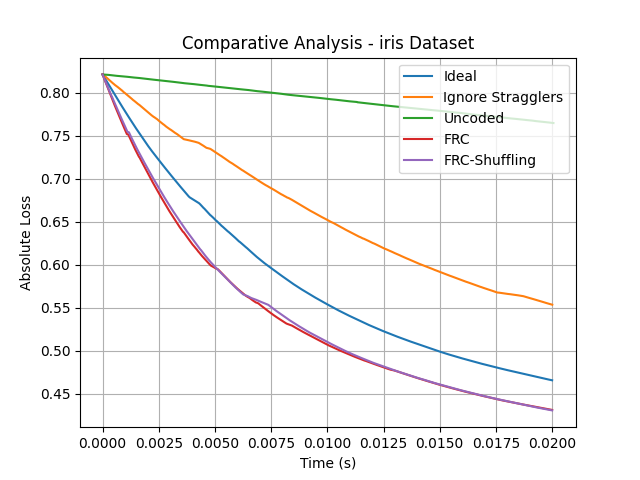
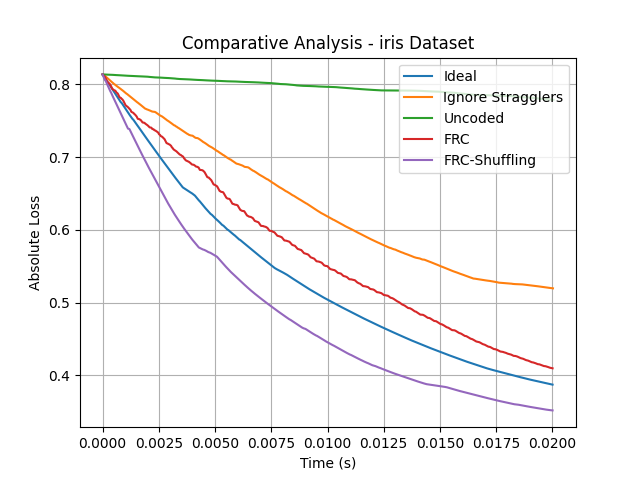
fixed bugs

diff --git a/Loss_Experiments/util.py b/Loss_Experiments/util.py
@@ -1,4 +1,6 @@
+import scipy.special as sp
 import numpy as np 
+import itertools
 
 def get_absolute_loss(X, y, w):
     loss = 0.
@@ -8,3 +10,40 @@ def get_absolute_loss(X, y, w):
 
 def least_square_loss(X, y, w):
     return np.dot(X.T, np.subtract(np.dot(X, w), y))
+
+def unique_rows(a):
+    b = np.ascontiguousarray(a).view(np.dtype((np.void, a.dtype.itemsize * a.shape[1])))
+    _, idx = np.unique(b, return_index=True)
+    return a[idx]
+
+def getB(n_workers,n_stragglers):
+    Htemp=np.random.normal(0,1,[n_stragglers,n_workers-1])
+    H=np.vstack([Htemp.T,-np.sum(Htemp,axis=1)]).T
+    Ssets=np.zeros([n_workers,n_stragglers+1])
+    for i in range(n_workers):
+        Ssets[i,:]=np.arange(i,i+n_stragglers+1)
+    Ssets=Ssets.astype(int)
+    Ssets=Ssets%n_workers
+    B=np.zeros([n_workers,n_workers])
+    for i in range(n_workers):
+        B[i,Ssets[i,0]]=1
+        vtemp=-np.linalg.solve(H[:,np.array(Ssets[i,1:])],H[:,Ssets[i,0]])
+        ctr=0
+        for j in Ssets[i,1:]:
+            B[i,j]=vtemp[ctr]
+            ctr+=1
+    return B
+
+def getA(B,n_workers,n_stragglers):
+    S = np.ones((int(sp.binom(n_workers,n_stragglers)),n_workers))
+    combs = itertools.combinations(range(n_workers), n_stragglers)
+    i=0
+    for pos in combs:
+        S[i,pos] = 0
+        i += 1
+    (m,n)=S.shape
+    A=np.zeros([m,n])
+    for i in range(m):
+        sp_pos=S[i,:]==1
+        A[i,sp_pos]=np.linalg.lstsq(B[sp_pos,:].T,np.ones(n_workers))[0]
+    return A

diff --git a/Loss_Experiments/distributed_gradient_descent_frc.py b/Loss_Experiments/distributed_gradient_descent_frc.py
@@ -17,13 +17,17 @@ def iterate(f, X, y, w, bucket, alpha=0.0001):
     e = bucket[1]
     return np.multiply((alpha/X.shape[0]), f(X[s:e], y[s:e], w))
 
-def run(N=10, s_ratio=0.1, pss=0.8, pns=0.01, k=2, time_stop=0, dataset="boston"):
+def run(N=10, s_ratio=0.1, pss=0.8, pns=0.01, k=2, time_stop=0, dataset="boston", alpha=0.0001):
     N                  = int(N/k)
     data               = get_dataset(dataset)
     X_, y              = data.data, data.target 
     X                  = np.ones((X_.shape[0], X_.shape[1] + 1))
     X[:,:-1]           = X_  
     X                  = np.divide((X - np.mean(X)),np.std(X))
+    np.random.seed(42)
+    np.random.shuffle(X)
+    np.random.seed(42)
+    np.random.shuffle(y)
     X_test             = X[:int(X.shape[0]/2)]
     X                  = X[int(X.shape[0]/2):X.shape[0]]
     y_test             = y[:int(y.size/2)]
@@ -47,7 +51,7 @@ def run(N=10, s_ratio=0.1, pss=0.8, pns=0.01, k=2, time_stop=0, dataset="boston"
         for each in buckets:
             SD = 1
             start_time = time.time()
-            g_         = iterate(least_square_loss, X, y, w, each)
+            g_         = iterate(least_square_loss, X, y, w, each, alpha=alpha)
             t_         = time.time() - start_time 
             if buckets.index(each) in straggler_arr:
                 if np.random.random() < pss:

diff --git a/Loss_Experiments/distributed_gradient_descent_frc_shuffling.py b/Loss_Experiments/distributed_gradient_descent_frc_shuffling.py
@@ -26,13 +26,17 @@ def iterate(f, X, y, w, bucket, alpha=0.0001):
     e = bucket[1]
     return np.multiply((alpha/X.shape[0]), f(X[s:e], y[s:e], w))
 
-def run(N=10, s_ratio=0.1, pss=0.8, pns=0.01, k=2, time_stop=0, dataset="boston"):
+def run(N=10, s_ratio=0.1, pss=0.8, pns=0.01, k=2, time_stop=0, dataset="boston", alpha=0.0001):
     N                  = int(N/k)
     data               = get_dataset(dataset)
     X_, y              = data.data, data.target 
     X                  = np.ones((X_.shape[0], X_.shape[1] + 1))
     X[:,:-1]           = X_  
     X                  = np.divide((X - np.mean(X)),np.std(X))
+    np.random.seed(42)
+    np.random.shuffle(X)
+    np.random.seed(42)
+    np.random.shuffle(y)
     X_test             = X[:int(X.shape[0]/2)]
     X                  = X[int(X.shape[0]/2):X.shape[0]]
     y_test             = y[:int(y.size/2)]
@@ -56,7 +60,7 @@ def run(N=10, s_ratio=0.1, pss=0.8, pns=0.01, k=2, time_stop=0, dataset="boston"
         for each in buckets:
             SD = 1
             start_time = time.time()
-            g_         = iterate(least_square_loss, X, y, w, each)
+            g_         = iterate(least_square_loss, X, y, w, each, alpha=alpha)
             t_         = time.time() - start_time 
             if buckets.index(each) in straggler_arr:
                 if np.random.random() < pss:

diff --git a/Loss_Experiments/distributed_gradient_descent_ignore.py b/Loss_Experiments/distributed_gradient_descent_ignore.py
@@ -10,12 +10,16 @@ def iterate(f, X, y, w, bucket, alpha=0.0001):
     e = bucket[1]
     return np.multiply((alpha/X.shape[0]), f(X[s:e], y[s:e], w))
 
-def run(N=10, s_ratio=0.1, pss=0.8, pns=0.01, time_stop=0, dataset="boston"):
+def run(N=10, s_ratio=0.1, pss=0.8, pns=0.01, time_stop=0, dataset="boston", alpha=0.0001):
     data               = get_dataset(dataset)
     X_, y              = data.data, data.target 
     X                  = np.ones((X_.shape[0], X_.shape[1] + 1))
     X[:,:-1]           = X_  
     X                  = np.divide((X - np.mean(X)),np.std(X))
+    np.random.seed(42)
+    np.random.shuffle(X)
+    np.random.seed(42)
+    np.random.shuffle(y)
     X_test             = X[:int(X.shape[0]/2)]
     X                  = X[int(X.shape[0]/2):X.shape[0]]
     y_test             = y[:int(y.size/2)]
@@ -37,7 +41,7 @@ def run(N=10, s_ratio=0.1, pss=0.8, pns=0.01, time_stop=0, dataset="boston"):
         for each in buckets:
             SD = 1
             start_time = time.time()
-            g_         = iterate(least_square_loss, X, y, w, each)
+            g_         = iterate(least_square_loss, X, y, w, each, alpha=alpha)
             t_         = time.time() - start_time 
             if buckets.index(each) in straggler_arr:
                 if np.random.random() < pss:

diff --git a/Loss_Experiments/distributed_gradient_descent_uncoded.py b/Loss_Experiments/distributed_gradient_descent_uncoded.py
@@ -10,12 +10,16 @@ def iterate(f, X, y, w, bucket, alpha=0.0001):
     e = bucket[1]
     return np.multiply((alpha/X.shape[0]), f(X[s:e], y[s:e], w))
 
-def run(N=10, s_ratio=0.1, pss=0.8, pns=0.01, time_stop=0, dataset="boston"):
+def run(N=10, s_ratio=0.1, pss=0.8, pns=0.01, time_stop=0, dataset="boston", alpha=0.0001):
     data               = get_dataset(dataset)
     X_, y              = data.data, data.target 
     X                  = np.ones((X_.shape[0], X_.shape[1] + 1))
     X[:,:-1]           = X_  
     X                  = np.divide((X - np.mean(X)),np.std(X))
+    np.random.seed(42)
+    np.random.shuffle(X)
+    np.random.seed(42)
+    np.random.shuffle(y)
     X_test             = X[:int(X.shape[0]/2)]
     X                  = X[int(X.shape[0]/2):X.shape[0]]
     y_test             = y[:int(y.size/2)]
@@ -36,7 +40,7 @@ def run(N=10, s_ratio=0.1, pss=0.8, pns=0.01, time_stop=0, dataset="boston"):
         for each in buckets:
             SD = 1
             start_time = time.time()
-            g         += iterate(least_square_loss, X, y, w, each)
+            g         += iterate(least_square_loss, X, y, w, each, alpha=alpha)
             t_         = time.time() - start_time 
             if buckets.index(each) in straggler_arr:
                 if np.random.random() < pss:

diff --git a/Loss_Experiments/run.py b/Loss_Experiments/run.py
@@ -10,12 +10,13 @@ dataset   = "wine"
 N         = 10
 time_stop = 0.02
 s_ratio   = 0.5
+alpha     = 0.0000015
 
-t1, l1 = distributed_gradient_descent.run(dataset=dataset, N=N, time_stop=time_stop)
-t2, l2 = distributed_gradient_descent_ignore.run(dataset=dataset, N=N, time_stop=time_stop, s_ratio=s_ratio)
-t3, l3 = distributed_gradient_descent_uncoded.run(dataset=dataset, N=N, time_stop=time_stop, s_ratio=s_ratio)
-t4, l4 = distributed_gradient_descent_frc.run(dataset=dataset, N=N, time_stop=time_stop, s_ratio=s_ratio)
-t5, l5 = distributed_gradient_descent_frc_shuffling.run(dataset=dataset, N=N, time_stop=time_stop, s_ratio=s_ratio)
+t1, l1 = distributed_gradient_descent.run(dataset=dataset, N=N, time_stop=time_stop, alpha=alpha)
+t2, l2 = distributed_gradient_descent_ignore.run(dataset=dataset, N=N, time_stop=time_stop, s_ratio=s_ratio, alpha=alpha)
+t3, l3 = distributed_gradient_descent_uncoded.run(dataset=dataset, N=N, time_stop=time_stop, s_ratio=s_ratio, alpha=alpha)
+t4, l4 = distributed_gradient_descent_frc.run(dataset=dataset, N=N, time_stop=time_stop, s_ratio=s_ratio, alpha=alpha)
+t5, l5 = distributed_gradient_descent_frc_shuffling.run(dataset=dataset, N=N, time_stop=time_stop, s_ratio=s_ratio, alpha=alpha)
 
 plt.grid()
 plt.plot(t1, l1)

diff --git a/Loss_Experiments/distributed_gradient_descent.py b/Loss_Experiments/distributed_gradient_descent.py
@@ -10,12 +10,16 @@ def iterate(f, X, y, w, bucket, alpha=0.0001):
     e = bucket[1]
     return np.multiply((alpha/X.shape[0]), f(X[s:e], y[s:e], w))
 
-def run(N=10, time_stop=0, dataset="boston"):
+def run(N=10, time_stop=0, dataset="boston", alpha=0.0001):
     data               = get_dataset(dataset)
     X_, y              = data.data, data.target 
     X                  = np.ones((X_.shape[0], X_.shape[1] + 1))
     X[:,:-1]           = X_  
     X                  = np.divide((X - np.mean(X)),np.std(X))
+    np.random.seed(42)
+    np.random.shuffle(X)
+    np.random.seed(42)
+    np.random.shuffle(y)
     X_test             = X[:int(X.shape[0]/2)]
     X                  = X[int(X.shape[0]/2):X.shape[0]]
     y_test             = y[:int(y.size/2)]
@@ -33,7 +37,7 @@ def run(N=10, time_stop=0, dataset="boston"):
         t = 0
         for each in buckets:
             start_time = time.time()
-            g         += iterate(least_square_loss, X, y, w, each)
+            g         += iterate(least_square_loss, X, y, w, each, alpha=alpha)
             t_         = time.time() - start_time 
             if t == 0 or t > t_:
                 t = t_

diff --git a/Loss_Experiments/gradient_descent.py b/Loss_Experiments/gradient_descent.py
@@ -14,6 +14,10 @@ def run():
     X         = np.ones((X_.shape[0], X_.shape[1] + 1))
     X[:,:-1]  = X_  
     X         = np.divide((X - np.mean(X)),np.std(X))
+    np.random.seed(42)
+    np.random.shuffle(X)
+    np.random.seed(42)
+    np.random.shuffle(y)
     w         = np.random.rand(X.shape[1])
     loss_arr  = [get_absolute_loss(X, y, w)]
     for i in range(1000):

diff --git a/Loss_Experiments/data_generator.py b/Loss_Experiments/data_generator.py
@@ -19,5 +19,6 @@ def get_dataset(s="boston"):
         print("Invalid Option!")
 
 if __name__ == "__main__":
-    data = get_dataset()
+    data = get_dataset("iris")
     X, y = data.data, data.target
+    print(y)
